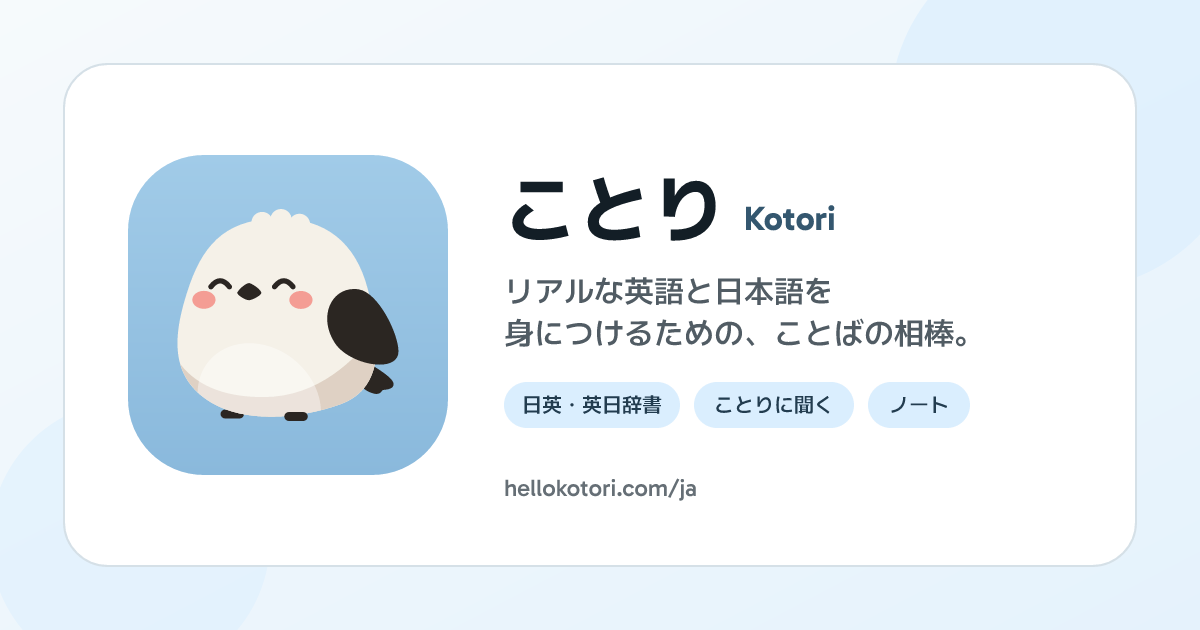
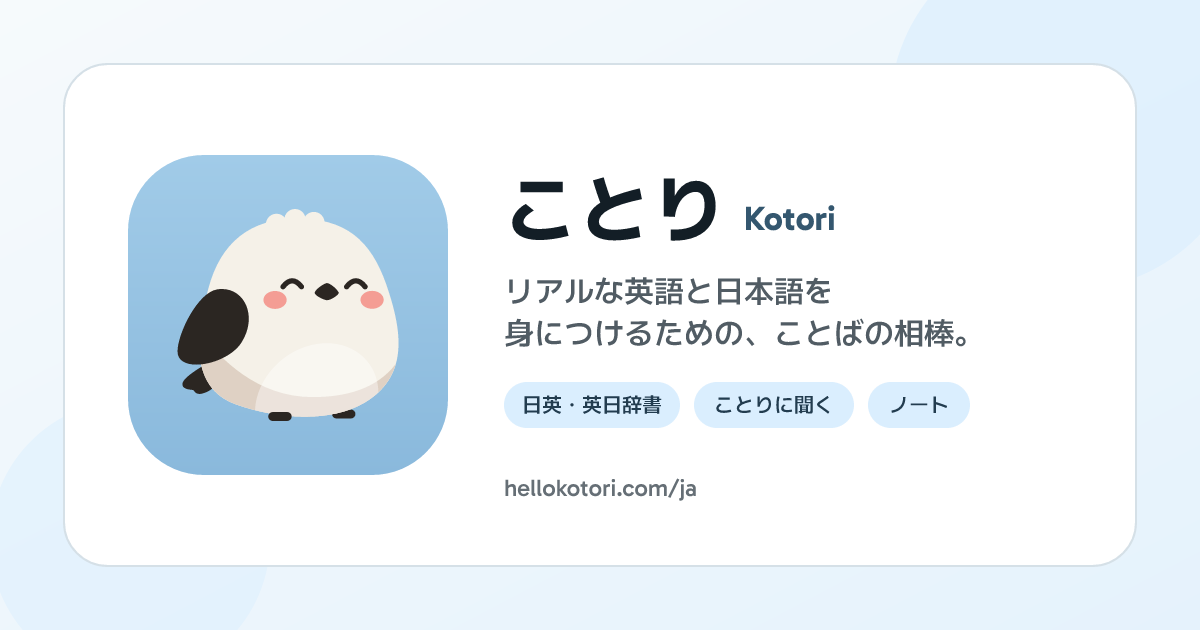
feat(app): face Kotori right on the social preview cards (#210)
## Summary

Kotori now looks toward the app name and tagline on both social preview
cards instead of away from them.

```diff
 ogImageSvg (tools/render-assets.ts)
-  mascotSvg({ mood: "happy", padding: 0 })
+  mascotSvg({ mood: "happy", facing: "right", padding: 0 })
```

`og-image.png` and `og-image-ja.png` are re-rendered with `pnpm assets`.
App icons, favicons and in-app mascots are untouched.

## Evidence

- **Before:**
<img
src="https://raw.githubusercontent.com/0Calories/kotori/assets/og-mascot-faces-right/before-en.png"
width="420"> <img
src="https://raw.githubusercontent.com/0Calories/kotori/assets/og-mascot-faces-right/before-ja.png"
width="420">

  **After:**
<img
src="https://raw.githubusercontent.com/0Calories/kotori/assets/og-mascot-faces-right/after-en.png"
width="420"> <img
src="https://raw.githubusercontent.com/0Calories/kotori/assets/og-mascot-faces-right/after-ja.png"
width="420">

- `pnpm format:check` and `pnpm nx affected -t lint typecheck test build
check` pass.

## Merge Danger

**Door:** two-way

Reverting restores the previous images.

**Blast Radius:** cosmetic

Only the two link preview images change. Chat and social apps cache
previews, so links already shared keep the left-facing card until those
caches expire.

🤖 Generated with [Claude Code](https://claude.com/claude-code)

Changed region(s): [[0.1233, 0.3317, 0.3392, 0.6937]]

diff --git a/tools/render-assets.ts b/tools/render-assets.ts
@@ -120,7 +120,7 @@ const ogImageSvg = (spec: OgCardSpec) => {
   const meta = brand[spec.language]
   const [line1, line2] = taglineLines(meta.tagline, spec.taglineBreakAfter)
   const domain = meta.url.replace(/^https:\/\//, "").replace(/\/$/, "")
-  const mascotInner = stripXmlSvgWrapper(mascotSvg({ mood: "happy", padding: 0 }))
+  const mascotInner = stripXmlSvgWrapper(mascotSvg({ mood: "happy", facing: "right", padding: 0 }))
   let pillX = 0
   const pillsMarkup = spec.pills
     .map((pill) => {
